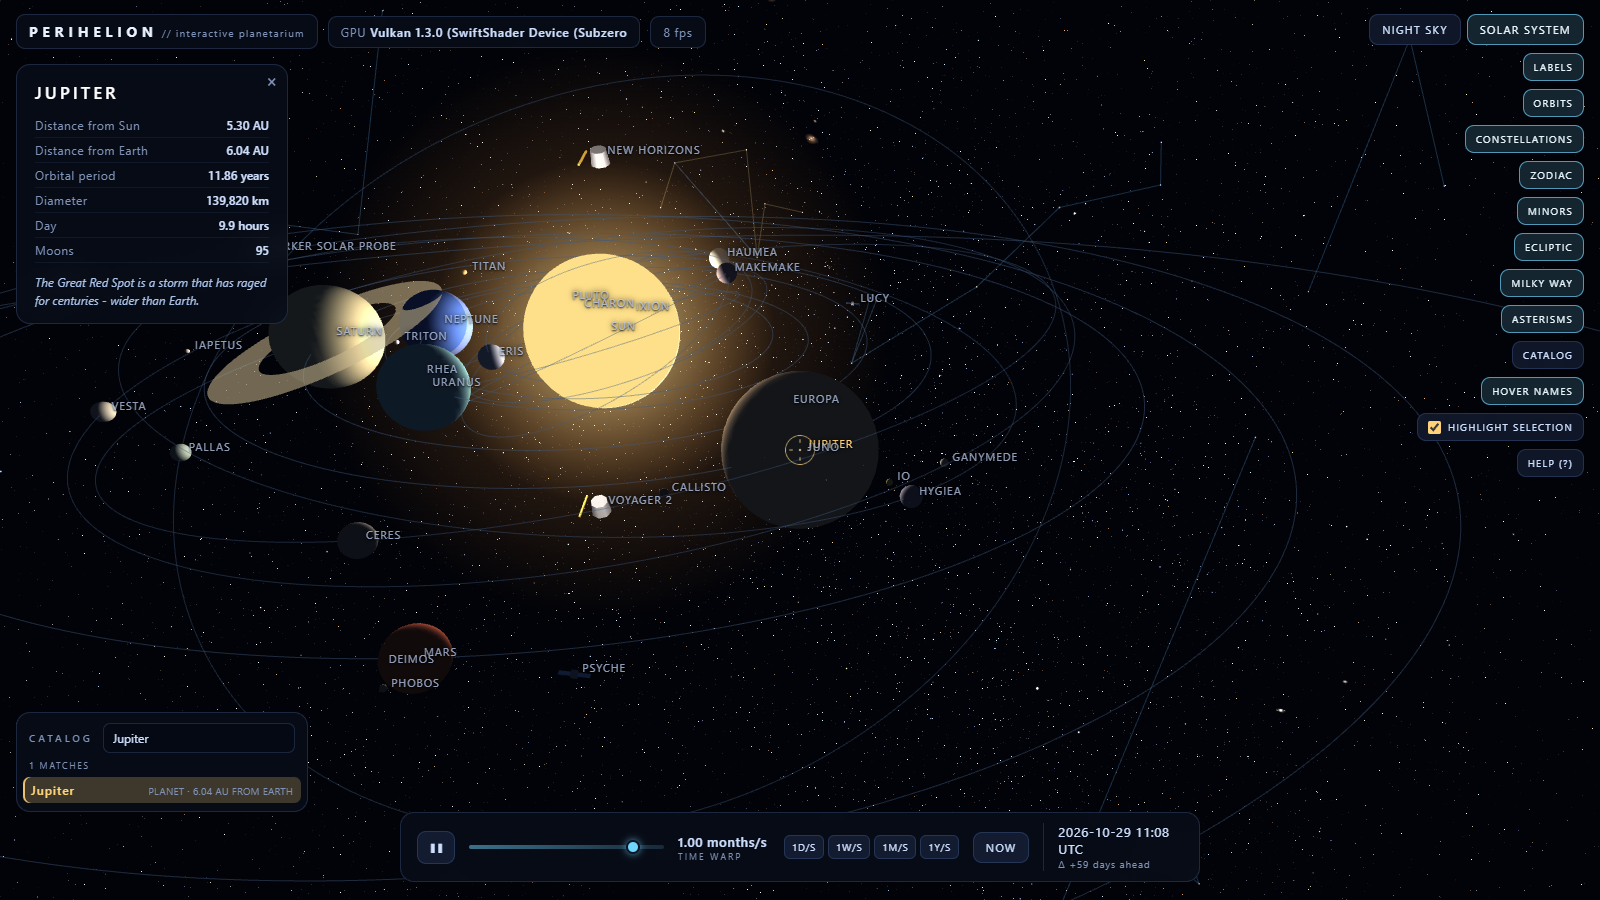
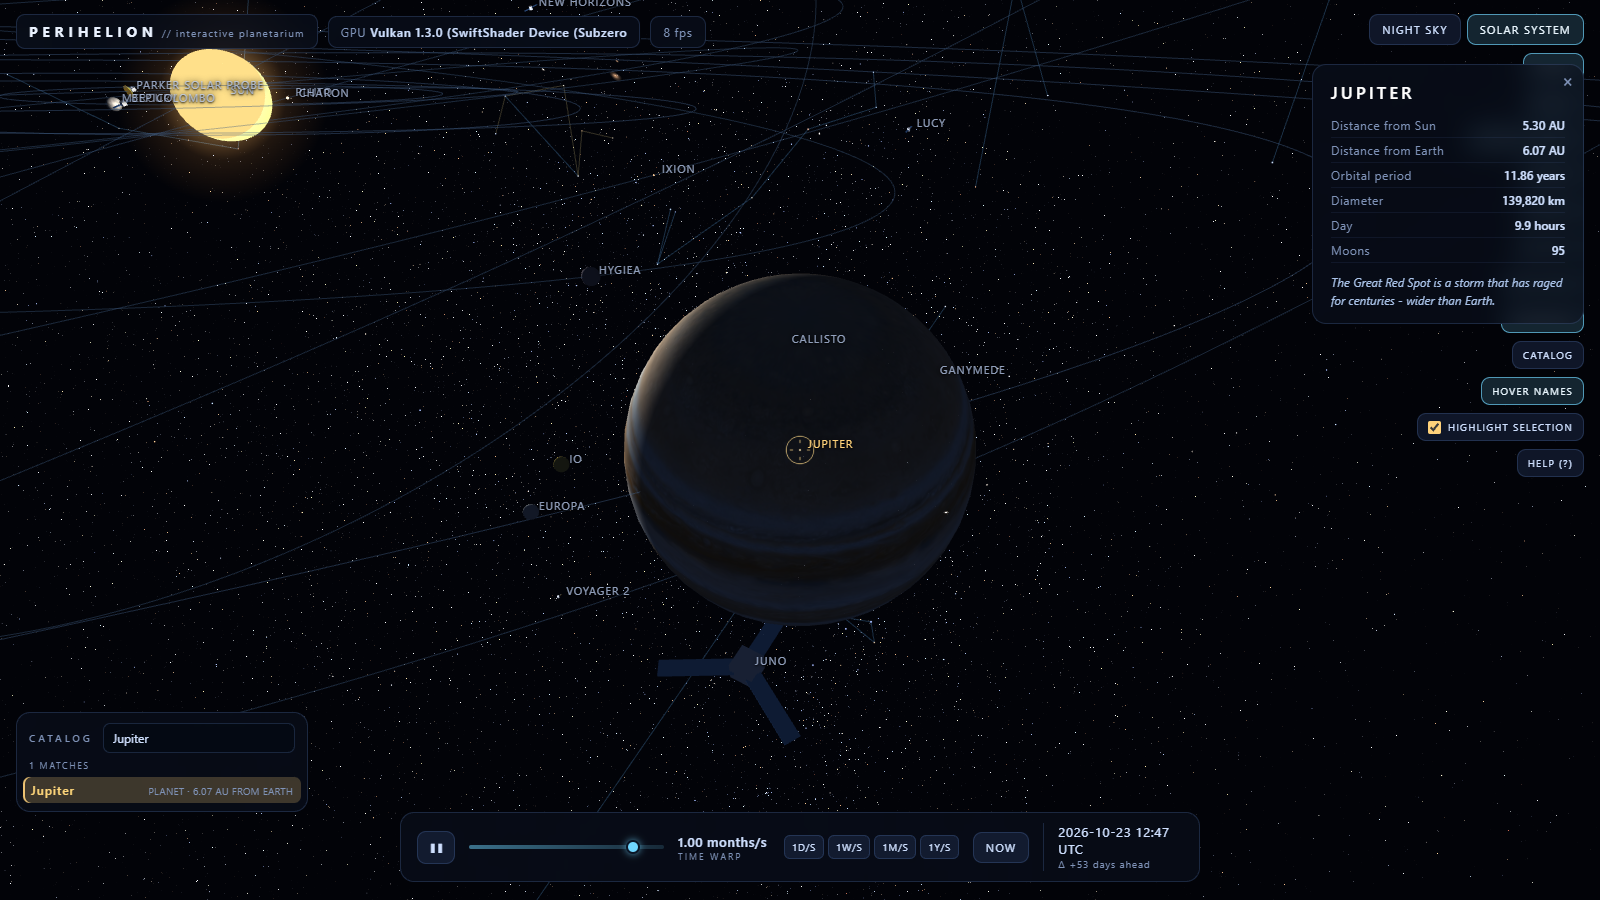
Solar-mode fixes: correct orbit order, un-crowd outer planets, richer probes
Radial scale fix (the real reason Saturn/Uranus looked stuck together):
posFromEcl divided the compressed radius by the heliocentric distance a
second time, inverting the system - Mercury rendered OUTSIDE Neptune and
Saturn/Uranus/Neptune were piled into the Sun's glow 2.5 units apart.
Scene radius is now 26*r^0.62 as intended: Mercury 14.4, Earth 26,
Jupiter 72, Saturn 105, Uranus 162, Neptune 215 (strictly ordered,
Saturn->Uranus gap now 59 units). QA asserts the ordering.
- Tier-2 (interstellar) probes now sit at their true compressed radii
  (347-631) instead of a rim push; rim guard kept as safety at r=300
- Probes are de-embedded from body meshes (JWST at L2 was inside the
  Earth sphere; Juno was always inside Jupiter) - nudged clear
- Probe follow zoom 16 -> 8 (model fills the frame)

Probe detail (plan phases 2-3 follow-up):
- JWST: 18 hex segments in the real honeycomb layout (6+12, centre
  empty) on a dark backing panel with grout, five-layer tapered
  gold sunshield, bus; slow turntable spin in solar mode
- Voyager: instrument tray, RTG boom with 3 RTGs, magnetometer boom
- New Horizons: twin solar arrays; Juno: top dish; PSP: radiator
- All tier-1 models at 2.5x body size so detail reads up close

QA: qa-probes (V1 at 631.6 = 26*171.5^0.62), qa-planetzoom (+orbit
ordering + 59/50 outer-planet gaps), full suite 12/12 green

diff --git a/js/solar.js b/js/solar.js
@@ -9,11 +9,17 @@ P.solar = (function () {
   const DIST_K = 26, DIST_P = 0.62;          // compressed radial scale
   const SUN_R = 3.2;
   const MOON_DIST = 2.2;
-  const TIER2_RIM = 44;                       // rim radius for interplanetary probes
+  const TIER2_RIM = 300;                      // rim radius for interstellar probes
+                                              // (outside Neptune ~215 / Ixion ~242)
 
   function distScale(rAu) { return DIST_K * Math.pow(Math.max(rAu, 1e-6), DIST_P); }
 
-  /* World position of a planet from its heliocentric ecliptic vector. */
+  /* World position of a planet from its heliocentric ecliptic vector.
+   * Scene radius = distScale(r) = 26·r^0.62 — compressed but ORDER-CORRECT:
+   * Mercury 14.4, Earth 26, Jupiter 72, Saturn 105, Uranus 162, Neptune 215.
+   * (An earlier version divided by the radius as well, which flipped the
+   *  system — Mercury outside Neptune — and piled Saturn/Uranus/Neptune
+   *  into the Sun's glow.) */
   function posFromEcl(eclV, out) {
     const r = eclV.length();
     // ecliptic -> equatorial
@@ -21,7 +27,7 @@ P.solar = (function () {
           Z = eclV.y * Math.sin(EPSJ) + eclV.z * Math.cos(EPSJ);
     const wx = X, wy = Z, wz = -Y;            // equatorial -> world
     const wl = Math.hypot(wx, wy, wz) || 1;
-    const s = distScale(r) / wl;
+    const s = distScale(r);
     return out.set(wx / wl * s, wy / wl * s, wz / wl * s);
   }
   // (obliquity constant, duplicated here to keep this module self-contained)
@@ -52,7 +58,7 @@ P.solar = (function () {
       map: new THREE.CanvasTexture(glowC), transparent: true,
       blending: THREE.AdditiveBlending, depthWrite: false
     }));
-    sunGlow.scale.set(24, 24, 1);
+    sunGlow.scale.set(16, 16, 1);
     group.add(sunGlow);
 
     const light = new THREE.PointLight(0xfff2d8, 1.55, 0, 0);
@@ -157,24 +163,54 @@ P.solar = (function () {
      * heliocentric position. Tier 2 (Voyager 1/2, New Horizons) ride the
      * same true position hundreds of units out — their "rim icon" — so the
      * model is enlarged to stay visible from an overview camera. */
+    /* Detailed procedural spacecraft (plan §10.3). Tier-1 built at 2.5×
+       body size so the detail reads up close; tier-2 (interstellar) icons
+       stay large for the rim. */
     function probeModel(p) {
       const g = new THREE.Group();
-      const s = p.tier === 2 ? p.size * 8 : p.size;
-      const body = new THREE.MeshLambertMaterial({ color: 0x9aa2b1 });
+      const s = p.tier === 2 ? p.size * 8 : p.size * 2.5;
+      const body = new THREE.MeshLambertMaterial({ color: 0x9aa2b1, emissive: 0x0a0d14 });
       const gold = new THREE.MeshLambertMaterial({ color: 0xd9b34a, emissive: 0x2a1d05 });
+      const gold2 = new THREE.MeshLambertMaterial({ color: 0xc8a23c, emissive: 0x1f1503 });
       const panel = new THREE.MeshLambertMaterial({ color: 0x27406e, emissive: 0x0a1420 });
       const add = (m) => { g.add(m); return m; };
+
       if (p.model === 'jwst') {
-        const shield = add(new THREE.Mesh(new THREE.CylinderGeometry(0.95 * s, 1.15 * s, 0.05, 6), panel));
-        shield.rotation.z = 0.18;
-        const mirror = add(new THREE.Mesh(new THREE.CylinderGeometry(0.42 * s, 0.42 * s, 0.12, 6), gold));
-        mirror.position.y = 0.5 * s;
-        mirror.rotation.x = Math.PI / 2;
+        /* five-layer gold sunshield: much wider than the mirror (like the
+           real ~21 m kite), tapered, visibly staggered stack */
+        for (let i = 0; i < 5; i++) {
+          const layer = add(new THREE.Mesh(
+            new THREE.CylinderGeometry((1.7 - i * 0.11) * s, (1.7 - i * 0.11) * s, 0.04 * s, 6),
+            i % 2 ? gold2 : gold));
+          layer.position.y = -0.16 * s - i * 0.12 * s;
+        }
+        /* bus between shield and mirror */
+        const bus = add(new THREE.Mesh(new THREE.BoxGeometry(0.5 * s, 0.24 * s, 0.4 * s), body));
+        bus.position.y = 0.02 * s;
+        /* primary mirror — the real JWST layout: 18 hexagons in a side-2
+           honeycomb (6 inner + 12 outer, centre empty). A dark backing panel
+           + generous grout make the individual tiles read from a distance. */
+        const h = 0.19 * s;                        /* segment circumradius   */
+        const gap = 1.18;                          /* >1 => visible grout    */
+        const yMirror = 0.5 * s;
+        const dark = new THREE.MeshLambertMaterial({ color: 0x14161c });
+        const back = add(new THREE.Mesh(new THREE.CylinderGeometry(5.3 * h, 5.3 * h, 0.03 * s, 6), dark));
+        back.position.y = yMirror - 0.06 * s;
+        const segGeo = new THREE.CylinderGeometry(h, h, 0.12 * s, 6);
+        const cells = [[1, 0], [1, -1], [0, -1], [-1, 0], [-1, 1], [0, 1],
+                       [2, -2], [2, -1], [2, 0], [1, 1], [0, 2], [-1, 2],
+                       [-2, 2], [-2, 1], [-2, 0], [-1, -1], [0, -2], [1, -2]];
+        for (const [cx, cy] of cells) {
+          const m = add(new THREE.Mesh(segGeo, (cx + cy) % 2 ? gold : gold2));
+          m.position.set(Math.sqrt(3) * h * gap * (cx + cy / 2), yMirror, 1.5 * h * gap * cy);
+        }
       } else if (p.model === 'parker') {
-        const shield = add(new THREE.Mesh(new THREE.CylinderGeometry(0.75 * s, 0.75 * s, 0.07, 8), gold));
-        shield.rotation.z = Math.PI / 2;
+        const shield = add(new THREE.Mesh(new THREE.CylinderGeometry(0.75 * s, 0.75 * s, 0.07 * s, 8), gold));
+        shield.rotation.z = Math.PI / 2;                 /* octagon faces the Sun (−x) */
         const bus = add(new THREE.Mesh(new THREE.BoxGeometry(0.5 * s, 0.4 * s, 0.4 * s), body));
         bus.position.x = 0.55 * s;
+        const rad = add(new THREE.Mesh(new THREE.BoxGeometry(0.4 * s, 0.05 * s, 0.3 * s), body));
+        rad.position.set(0.5 * s, 0.3 * s, 0);          /* radiator panel */
       } else if (p.model === 'juno') {
         const bus = add(new THREE.Mesh(new THREE.BoxGeometry(0.5 * s, 0.5 * s, 0.5 * s), body));
         for (let k = 0; k < 3; k++) {
@@ -183,20 +219,52 @@ P.solar = (function () {
           wing.position.set(Math.cos(a) * 1.0 * s, 0, Math.sin(a) * 1.0 * s);
           wing.rotation.y = -a;
         }
+        const dish = add(new THREE.Mesh(new THREE.ConeGeometry(0.28 * s, 0.14 * s, 12, 1, true), gold));
+        dish.position.y = 0.36 * s;
+        dish.rotation.x = Math.PI;
       } else if (p.model === 'voyager' || p.model === 'nh') {
         const bus = add(new THREE.Mesh(new THREE.CylinderGeometry(0.28 * s, 0.34 * s, 0.5 * s, 8), body));
-        const dish = add(new THREE.Mesh(new THREE.ConeGeometry(0.55 * s, 0.22 * s, 12, 1, true), body));
-        dish.position.y = 0.4 * s;
+        const dish = add(new THREE.Mesh(new THREE.ConeGeometry(0.55 * s, 0.22 * s, 12, 1, true), gold));
+        dish.position.y = 0.42 * s;
         dish.rotation.x = Math.PI;
-        dish.material = gold;
-        const rtg = add(new THREE.Mesh(new THREE.BoxGeometry(0.06 * s, 0.06 * s, 0.9 * s), gold));
-        rtg.position.set(0.6 * s, -0.1 * s, 0);
-      } else { /* generic bus + panels */
+        const tray = add(new THREE.Mesh(new THREE.CylinderGeometry(0.3 * s, 0.3 * s, 0.1 * s, 12), body));
+        tray.position.y = 0.2 * s;                       /* instrument tray under the dish */
+        if (p.model === 'nh') {
+          /* New Horizons: twin solar arrays */
+          for (const side of [-1, 1]) {
+            const wing = add(new THREE.Mesh(new THREE.BoxGeometry(1.1 * s, 0.04 * s, 0.34 * s), panel));
+            wing.position.x = side * 0.95 * s;
+          }
+        } else {
+          /* Voyager: RTG boom (3 RTGs) + long magnetometer boom */
+          const boom = add(new THREE.Mesh(new THREE.BoxGeometry(1.2 * s, 0.04 * s, 0.04 * s), body));
+          boom.position.set(0.6 * s, -0.15 * s, 0);
+          for (let k = 0; k < 3; k++) {
+            const r = add(new THREE.Mesh(new THREE.CylinderGeometry(0.07 * s, 0.07 * s, 0.18 * s, 8), gold2));
+            r.position.set(0.25 * s + k * 0.4 * s, -0.22 * s, 0);
+          }
+          const mb = add(new THREE.Mesh(new THREE.CylinderGeometry(0.02 * s, 0.02 * s, 1.1 * s, 6), body));
+          mb.rotation.z = Math.PI / 2;
+          mb.position.set(-0.9 * s, 0.1 * s, 0.2 * s);
+        }
+      } else { /* generic bus + panels + dish */
         const bus = add(new THREE.Mesh(new THREE.BoxGeometry(0.45 * s, 0.45 * s, 0.45 * s), body));
         for (const side of [-1, 1]) {
           const wing = add(new THREE.Mesh(new THREE.BoxGeometry(0.9 * s, 0.04 * s, 0.3 * s), panel));
           wing.position.x = side * 0.7 * s;
         }
+        const dish = add(new THREE.Mesh(new THREE.ConeGeometry(0.24 * s, 0.12 * s, 10, 1, true), gold));
+        dish.position.y = 0.32 * s;
+        dish.rotation.x = Math.PI;
+      }
+      /* furthest reach of any part (for the de-embedding nudge in update) */
+      switch (p.model) {
+        case 'jwst': g.userData.half = 1.15 * s; break;
+        case 'parker': g.userData.half = 0.85 * s; break;
+        case 'juno': g.userData.half = 1.75 * s; break;
+        case 'voyager': g.userData.half = 1.2 * s; break;
+        case 'nh': g.userData.half = 1.5 * s; break;
+        default: g.userData.half = 1.15 * s;
       }
       return g;
     }
@@ -256,9 +324,9 @@ P.solar = (function () {
         mm.mesh.position.set(p.x + mwx / mwl * mm.dist, p.y + mwy / mwl * mm.dist, p.z + mwz / mwl * mm.dist);
       }
       /* probes — true (compressed) heliocentric position from Horizons data.
-         Tier-2 (interplanetary) probes compress to the Sun's glow at this
-         scene's scale, so they are pushed to the scene rim along their
-         true direction — a visible "rim icon" instead of a lost speck. */
+          Tier-2 (interstellar) probes sit at compressed radii of 347-631,
+          far beyond the overview view, so they are shown at their true
+          positions there (the r=300 rim guard is a no-op for them today). */
       if (P.probes) for (const p of P.probes.probes) {
         P.astro.probeHeliocEcl(p.pb, d, eclTmp);
         posFromEcl(eclTmp, _v1);
@@ -266,7 +334,28 @@ P.solar = (function () {
           const L = _v1.length();
           if (L > 1e-6 && L < TIER2_RIM) _v1.multiplyScalar(TIER2_RIM / L);
         }
+        /* de-embed: on this compressed scale a probe can physically sit
+           inside a body's mesh (JWST at L2 is 0.26 scene-units from Earth,
+           inside the 0.9-unit Earth sphere; Juno is always inside Jupiter).
+           Nudge it just clear of whatever sphere it is buried in. */
+        const half = meshes[p.name].userData.half;
+        for (const pl of P.planets) {
+          const pp = meshes[pl.name].position;
+          const dx = _v1.x - pp.x, dy = _v1.y - pp.y, dz = _v1.z - pp.z;
+          const L2 = Math.hypot(dx, dy, dz);
+          const minR = pl.size + half * 1.05;
+          if (L2 > 1e-9 && L2 < minR) {
+            const k = minR / L2;
+            _v1.x = pp.x + dx * k;
+            _v1.y = pp.y + dy * k;
+            _v1.z = pp.z + dz * k;
+          }
+        }
+        const lsun = _v1.length();
+        const smin = SUN_R + half * 1.05;
+        if (lsun > 1e-9 && lsun < smin) _v1.multiplyScalar(smin / lsun);
         meshes[p.name].position.copy(_v1);
+        meshes[p.name].rotation.y = (d * 0.2) % TAU;  /* slow turntable for the detail */
       }
     }
 

diff --git a/js/app.js b/js/app.js
@@ -971,7 +971,7 @@ P.app = (function () {
       return;
     }
     if (c.kind === 'probe') {
-      if (state.mode === 'solar') { state.follow = c.body; cam.dist = 16; }
+      if (state.mode === 'solar') { state.follow = c.body; cam.dist = 8; }
       else rotateToVec(eph[c.body].anchor);
       return;
     }
@@ -1100,7 +1100,7 @@ P.app = (function () {
     if (state.mode === m) return;
     state.mode = m;
     if (m === 'solar') {
-      cam.dist = 150; cam.pitch = 0.85;
+      cam.dist = 200; cam.pitch = 0.85;   /* frames inner system + Jupiter */
       state.follow = 'Sun';
       solar.loadTextures();           /* lazy: photo maps on first entry */
       /* whole system visibly in motion: Moon ~1 s/orbit, Earth 12 s,

diff --git a/plan-probes.md b/plan-probes.md
@@ -1,7 +1,8 @@
 # PERIHELION — Plan: space probes, JWST models, planet close-ups, layout fix
 
-Status: **PROBES DONE (phases 1–4, 2026-08-31); phases 5–7 (planet close-ups, layout
-fix, final regression) still to do.**
+Status: **COMPLETE — all 7 phases done (2026-08-31), plus post-plan fixes for the
+radial-scale inversion, orbit crowding, and detailed probe models (see progress log
+tail).**
 
 ## 12. Progress log
 
